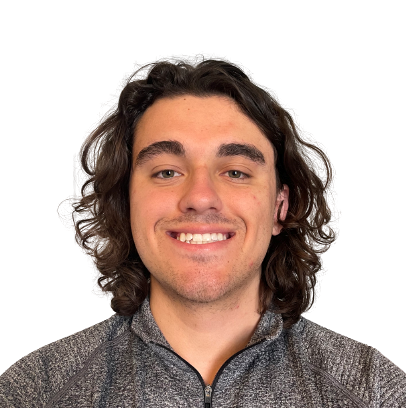
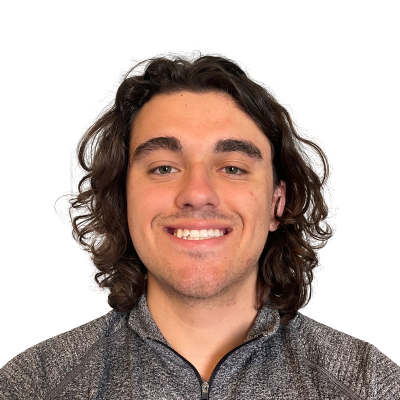
Updates photo size

Changed region(s): [[0.0, 0.12, 1.0, 1.0], [0.42, 0.57, 0.57, 0.6], [0.6, 0.54, 0.63, 0.57]]

diff --git a/public/index.html b/public/index.html
@@ -24,7 +24,7 @@
 <body>
     <div id="logo">
         <a href="#landing">
-            <img src="../static/logo_128x128.png" alt="Brandon Endres" />
+            <img src="../static/logo_128x128.png" width="400" height="400" alt="Brandon Endres" />
         </a>
     </div>
     <!-- Menu Navigation -->
